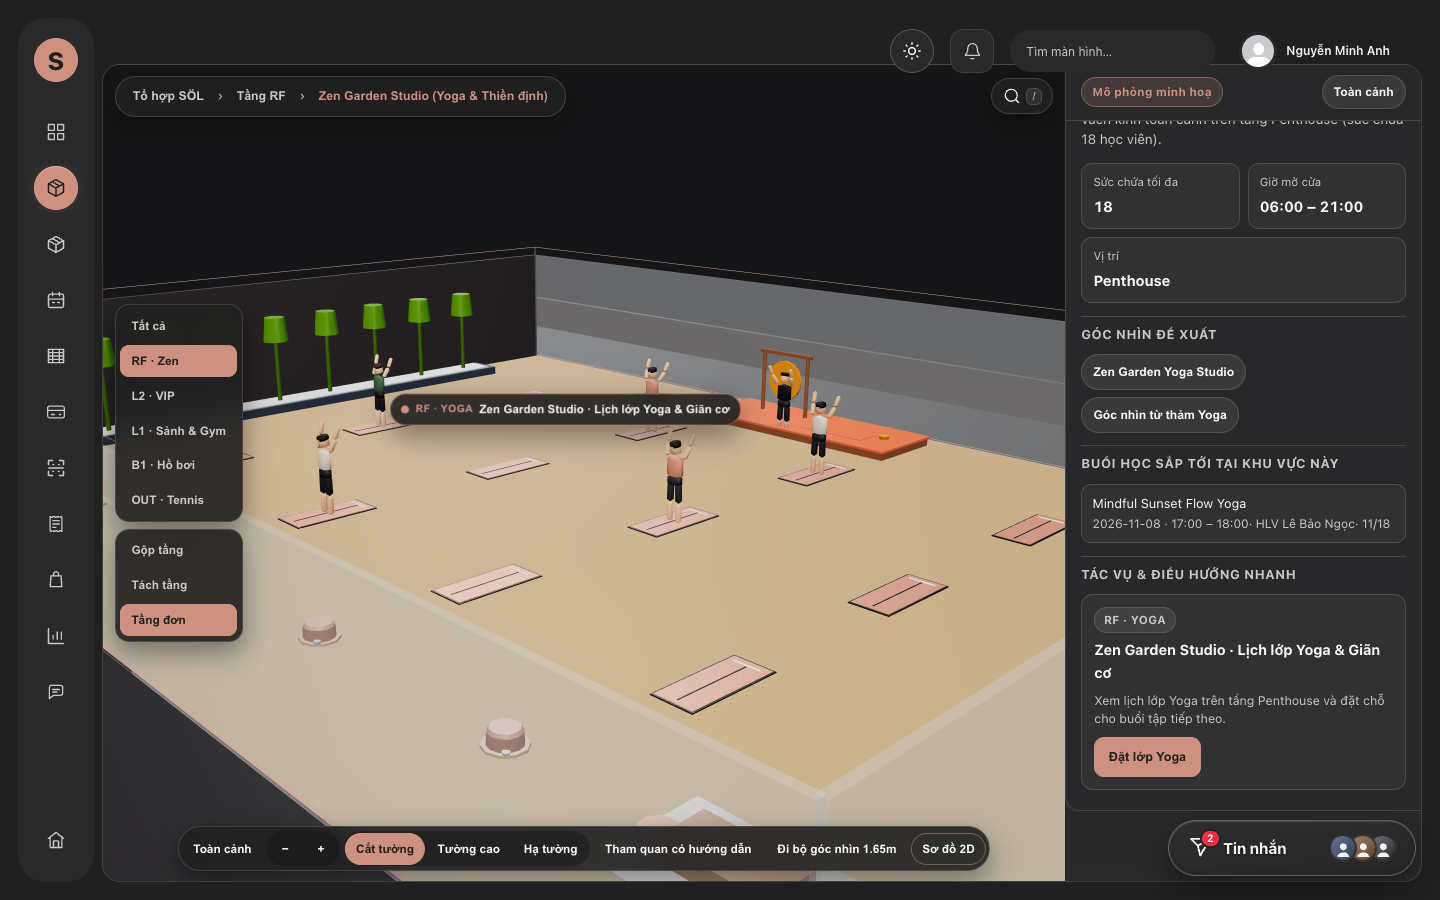
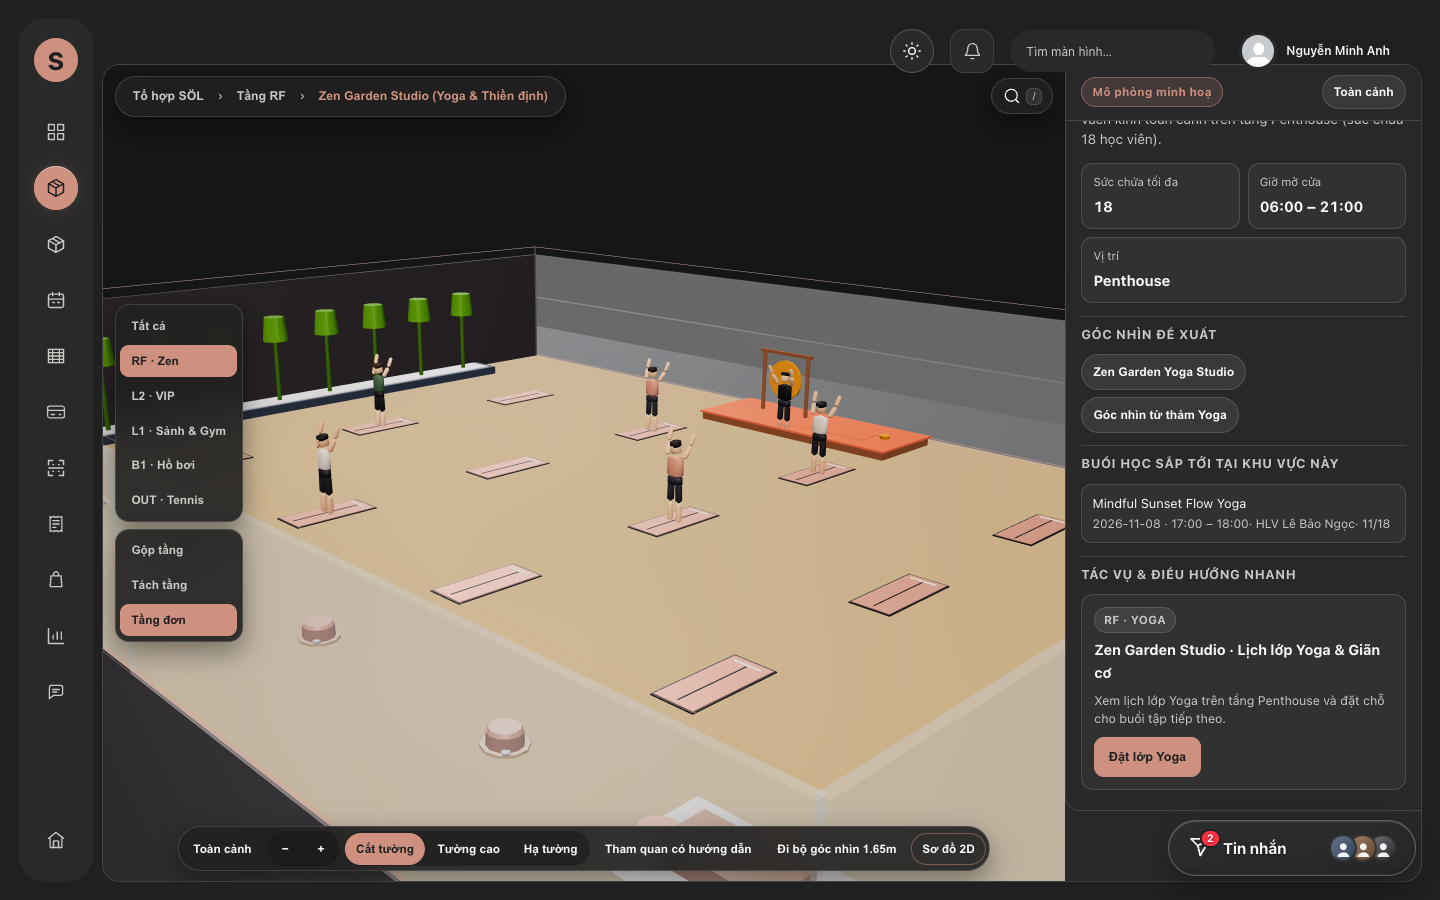
fix(explore3d): remove floating 3D hotspot title pills to keep 3D viewport unobstructed

diff --git a/apps/web/src/features/explore3d/canvas/Hotspots.tsx b/apps/web/src/features/explore3d/canvas/Hotspots.tsx
@@ -16,10 +16,11 @@ import { allHotspots, hotspotsOfLevel, levelOf, zoneOf } from '../scene/selector
 import { SOL_CENTER_SCENE } from '../scene/solCenter.scene';
 import { useExploreStore, type LevelMode } from '../state/exploreStore';
 
-export const MAX_ACTIVE_HOTSPOTS = 18;
+export const MAX_ACTIVE_HOTSPOTS = 0;
 
 export interface HotspotsProps {
   scene?: SceneDoc;
+  showLabels?: boolean;
 }
 
 export function computeHotspotWorldPosition(
@@ -32,26 +33,19 @@ export function computeHotspotWorldPosition(
   return [hotspot.position[0], hotspot.position[1] + extraY, hotspot.position[2]];
 }
 
-const STACKED_OVERVIEW_HOTSPOT_IDS = new Set([
-  'hs-rf-zen',
-  'hs-rf-yoga',
-  'hs-l2-inbody',
-  'hs-l1-packages',
-  'hs-l1-concierge',
-  'hs-l1-supplement',
-  'hs-out-tennis',
-  'hs-l1-main-gate',
-  'hs-l1-parking',
-]);
-
 export function getVisibleHotspots(
   scene: SceneDoc,
   focusLevel: LevelCode | 'ALL',
   selectedId: string | null,
   hoveredId: string | null,
+  showLabels = false,
 ): HotspotNode[] {
+  if (!showLabels) {
+    return [];
+  }
+
   if (focusLevel !== 'ALL') {
-    return hotspotsOfLevel(scene, focusLevel).slice(0, MAX_ACTIVE_HOTSPOTS);
+    return hotspotsOfLevel(scene, focusLevel).slice(0, 1);
   }
 
   const selectedZoneId = zoneOf(scene, selectedId)?.id ?? null;
@@ -59,12 +53,10 @@ export function getVisibleHotspots(
 
   const all = allHotspots(scene);
   if (!selectedId && !hoveredId) {
-    return all.filter(hs => STACKED_OVERVIEW_HOTSPOT_IDS.has(hs.id));
+    return [];
   }
 
   const prioritized: HotspotNode[] = [];
-  const primaryRest: HotspotNode[] = [];
-
   for (const hs of all) {
     const isDirectMatch = hs.id === selectedId || hs.id === hoveredId;
     const isZoneMatch =
@@ -73,12 +65,10 @@ export function getVisibleHotspots(
 
     if (isDirectMatch || isZoneMatch) {
       prioritized.push(hs);
-    } else if (hs.priority === 'primary') {
-      primaryRest.push(hs);
     }
   }
 
-  return [...prioritized, ...primaryRest].slice(0, MAX_ACTIVE_HOTSPOTS);
+  return prioritized.slice(0, 1);
 }
 
 function ProjectedHotspot({
@@ -178,7 +168,7 @@ function ProjectedHotspot({
   return null;
 }
 
-export function Hotspots({ scene = SOL_CENTER_SCENE }: HotspotsProps) {
+export function Hotspots({ scene = SOL_CENTER_SCENE, showLabels = false }: HotspotsProps) {
   const { t } = useI18n();
   const r3fStore = useContext(r3fContext);
 
@@ -188,9 +178,13 @@ export function Hotspots({ scene = SOL_CENTER_SCENE }: HotspotsProps) {
   const hoveredId = useExploreStore(s => s.hoveredId);
 
   const visibleHotspots = useMemo(
-    () => getVisibleHotspots(scene, focusLevel, selectedId, hoveredId),
-    [scene, focusLevel, selectedId, hoveredId],
+    () => getVisibleHotspots(scene, focusLevel, selectedId, hoveredId, showLabels),
+    [scene, focusLevel, selectedId, hoveredId, showLabels],
   );
+
+  if (visibleHotspots.length === 0) {
+    return null;
+  }
 
   const handleHotspotClick = (hotspot: HotspotNode) => {
     const state = useExploreStore.getState();

diff --git a/docs/qa/explore3d-perf.md b/docs/qa/explore3d-perf.md
@@ -8,8 +8,8 @@
 
 | Chỉ số | Kết quả đo | Ngưỡng mục tiêu | Đạt |
 | :--- | :---: | :---: | :---: |
-| **p50 Frame Time** | `16.8 ms` | `<= 16.7 ms` | PASS |
-| **p95 Frame Time** | `17.7 ms` | `<= 25.0 ms` | PASS |
+| **p50 Frame Time** | `16.7 ms` | `<= 16.7 ms` | PASS |
+| **p95 Frame Time** | `17.6 ms` | `<= 25.0 ms` | PASS |
 | **FPS trung bình (khi chuyển động)** | `58 FPS` | `>= 45 FPS` | PASS |
 | **Draw Calls tối đa (`gl.info.render.calls`)** | `116` | `<= 120` | PASS |
 | **Triangles tối đa (`gl.info.render.triangles`)** | `71,688` | `<= 120,000` | PASS |
